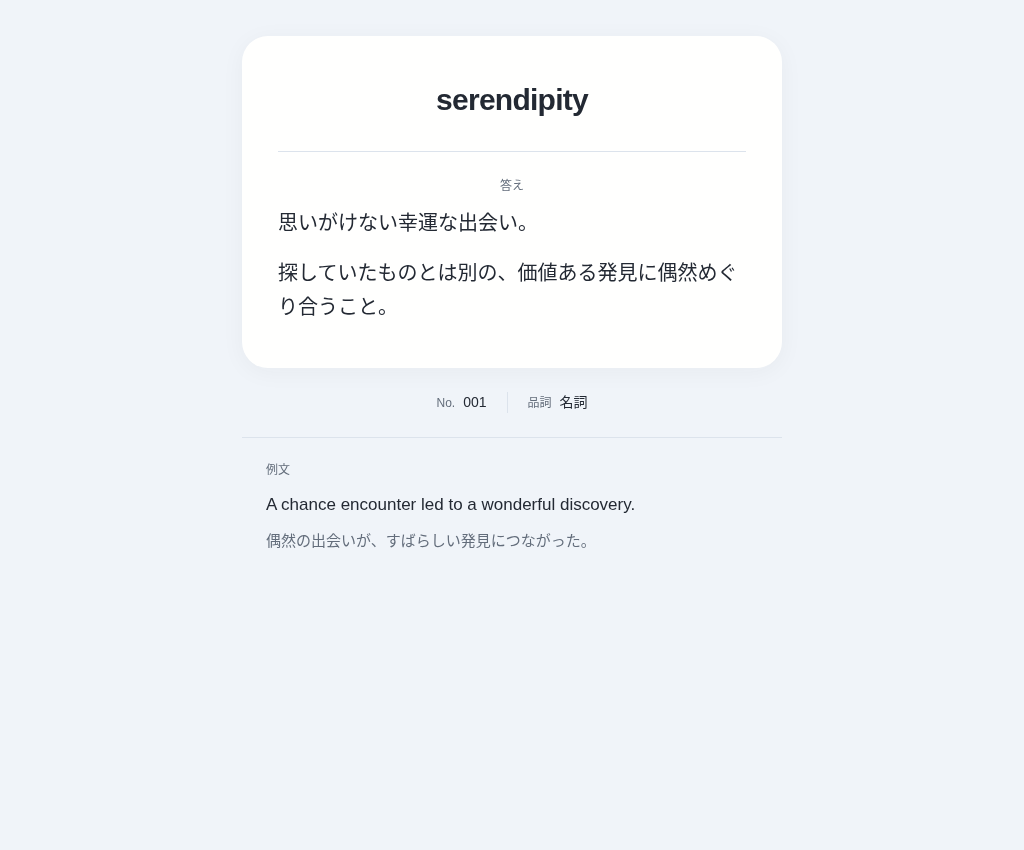
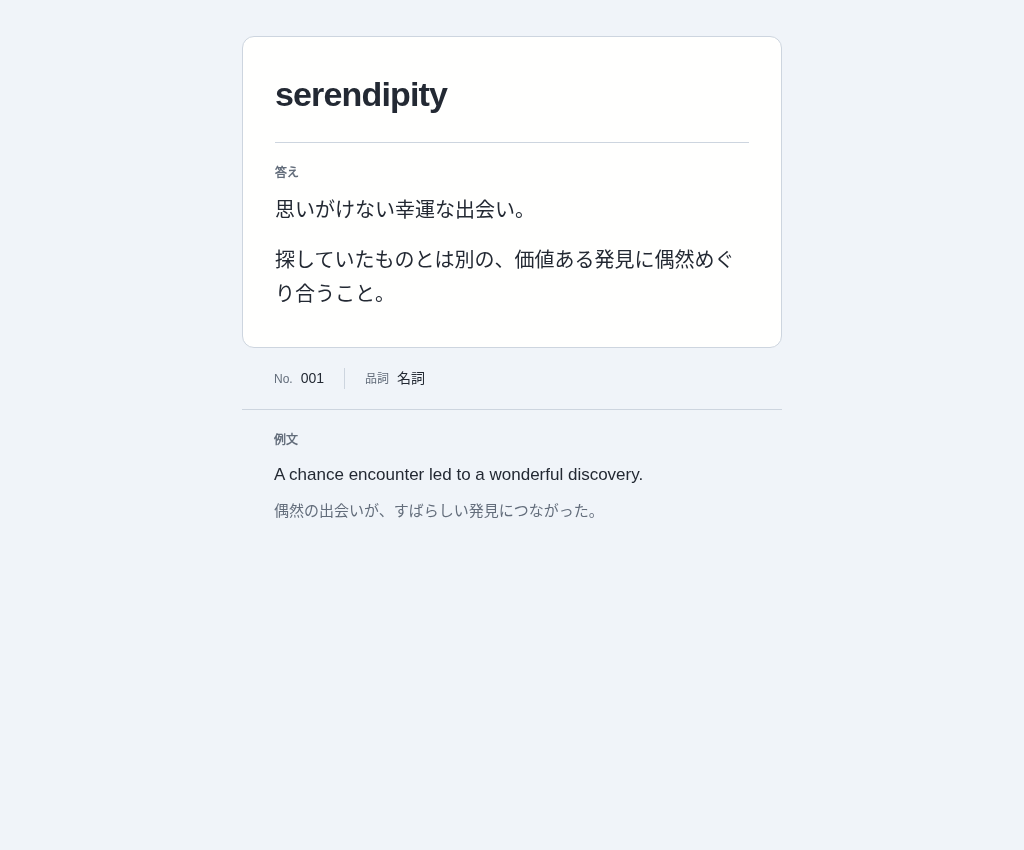
Sharpen Anki card layout with clear type and fine borders

diff --git a/DESIGN.md b/DESIGN.md
@@ -4,13 +4,13 @@
 
 ## 見た目と情報の順序
 
-- ユーザーの希望は「淡い色で、Apple風のすっきりした見た目」です。淡い青灰色の背景に白い問題・答えの枠を置きます。
-- 問題と本文は同じシステムのサンセリフ体を使い、サイズ・太さ・余白で階層を付けます。問題は600、短い答えは500、長文は400の太さです。
-- メインの枠は24〜26pxの角丸と、薄く柔らかな影で背景から区別します。Apple風という今回の指定に合わせた形です。枠線を重ねず、区切り線だけに薄い線を使います。
+- ユーザーの希望は「シンプルだけど切れのあるデザイン」です。淡い色のApple風という希望も踏まえ、青灰色の背景と白い問題・答えの枠を使います。
+- 問題と本文は同じシステムのサンセリフ体を使い、サイズ・太さ・余白で階層を付けます。問題は700、短い答えは500、長文は400の太さです。問題を明確に大きくし、本文は読みやすいサイズを保ちます。
+- メインの枠は12pxの角丸と1pxの枠線で輪郭を付けます。影やぼかしは使いません。問題と答えの境界、補足の境界にも同じ薄い線を使います。
 - 答えのラベルは補足と同じ控えめな文字色です。短い答えとリンク・文字の選択に、落ち着いた青を使います。
 - 順序は「問題 → 答え → 単語情報 → 例文」です。答えは裏面でだけ追加し、同じ枠に区切り線と「答え」のラベルを付けます。
 - 単語情報はラベルと値を並べたコンパクトな一行にします。例文は余白と薄い区切り線で整理します。
-- 中央の問題、短い答え、長い答えの左揃えを使い分けます。例文のラベルは日本語で「例文」とします。
+- 問題・答え・単語情報・例文の左端をそろえ、読む順序を明確にします。例文のラベルは日本語で「例文」とします。
 - ライト／ダークの自動切替は保ちます。文字は十分なコントラストを確保します。
 
 ## Happy Huesを参考にした配色
@@ -27,7 +27,7 @@
 | 選択の背景 | `#d8eefe` | `#314a65` |
 | 選択の文字 | `#232933` | `#f4f6f9` |
 | リンク | `#35628b` | `#adcbea` |
-| 区切り線 | `#dce3ec` | `#363c46` |
+| 枠線・区切り線 | `#cdd5df` | `#48515f` |
 
 長い答えには本文色を使い、本文・補足・リンク・短い答え・選択した文字はそれぞれ背景とのコントラストを4.5:1以上にしています。
 

diff --git a/README.md b/README.md
@@ -1,6 +1,6 @@
 # Ankiカードデザイン
 
-淡い青灰色と白を使った、Apple風のAnkiテンプレートです。Happy Huesの配色を参考に、Impeccableで書体・余白・情報の階層を整えています。**表面から裏面へ切り替えると、答えの分だけ同じ枠が下へ広がります。**
+淡い青灰色と白を使い、細い枠線と文字の強弱で輪郭を付けたAnkiテンプレートです。Happy Huesの配色を参考に、Impeccableで書体・余白・情報の階層を整えています。**表面から裏面へ切り替えると、答えの分だけ同じ枠が下へ広がります。**
 
 ## Ankiへの反映
 
@@ -26,8 +26,8 @@ GitHubで次の3ファイルを開き、内容全体をコピーしてAnkiの「
 
 ## 表示の動作
 
-- 色切替のボタン・保存処理はありません。淡い青灰色の背景に、丸い白いカードと薄い影を使います。
-- 書体はシステムのサンセリフ体に統一し、文字の大きさ・太さ・余白で問題と答えを整理しています。
+- 色切替のボタン・保存処理はありません。淡い青灰色の背景に、角丸12pxと細い枠線の白いカードを使います。
+- 書体はシステムのサンセリフ体に統一し、問題は大きく太く、本文は読みやすい太さにしています。問題・答え・補足情報の左端をそろえています。
 - 問題と答えの枠に最低高さ・高さの上限を設けません。短い答えでも枠が伸び、長い答えや画像が入るとさらに広がります。
 - 答えは問題の下に、区切り線と「答え」のラベルを付けて表示します。空の答えでは線・ラベル・余白を出しません。
 - 40文字を超える答えや箇条書き・表は、左揃えと広めの行間で表示します。高さに合わせて文字を際限なく縮めません。

diff --git a/docs/validation.md b/docs/validation.md
@@ -8,11 +8,11 @@
 
 | 画面幅 | 問題だけ | 短い答えを表示 | 長い答えを表示 |
 | --- | ---: | ---: | ---: |
-| 320px | 約114px | 約235px | 約1520px |
-| 390px | 約114px | 約235px | 約1214px |
-| 480px | 約114px | 約235px | 約1000px |
-| 768px | 約139px | 約263px | 約1046px |
-| 1024px | 約139px | 約263px | 約1046px |
+| 320px | 約103px | 約216px | 約1501px |
+| 390px | 約103px | 約216px | 約1195px |
+| 480px | 約103px | 約216px | 約981px |
+| 768px | 約127px | 約243px | 約1025px |
+| 1024px | 約127px | 約243px | 約1025px |
 
 短い答えは「りんご」、長い答えは段落2つと箇条書きのサンプルです。すべての幅で、答えが問題の枠の内側に収まり、単語情報と例文がその下へ移動することを確認しました。メイン枠のmin-heightは0px、max-heightはnoneです。
 
@@ -34,7 +34,7 @@ JavaScriptエラーは発生していません。
 
 ## デザインの検査
 
-ImpeccableのquieterとOperateの方針に沿って配色・文字・余白を整えました。ユーザーの指定は「淡い色で、Apple風のすっきりした見た目」です。スマートフォンの表面／裏面、デスクトップの裏面とダーク表示を目視で確認しています。
+Impeccableのtypesetとpolishの方針に沿って、文字の強弱・整列・余白を整えました。ユーザーの指定は「シンプルだけど切れのあるデザイン」です。角丸は12px、メインの枠線は1px、問題の太さは700です。スマートフォンとデスクトップの裏面・ダーク表示を目視で確認し、表面からの伸縮はブラウザで測定しています。
 
 テンプレート3ファイルと展開済みHTMLをImpeccableの検査ツールで1回検査し、指摘はありませんでした。
 
